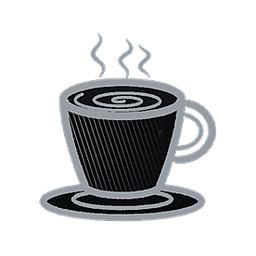
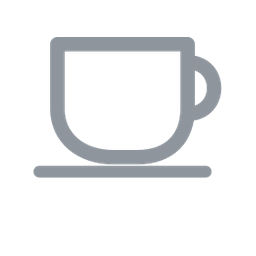
feat(bar): drag-to-move a widget works on a vertical bar (left/right), not only a horizontal one
The direct-drag gesture (press a widget, move, drop) only existed on the horizontal delegate; a vertical bar's
widgets had no DragHandler and were never registered as drop targets, so nothing happened when you tried. DragSession
now reasons along Y instead of X when the bar is vertical (shellLeft/shellRight hold top/bottom, the insert line is
drawn across the bar's thickness), and the vertical delegate gets the same drag/target-registration/drop-line wiring
the horizontal one has. Verified with a real drag on both a left bar and a top bar: the widget under the pointer moves
to the gap the guide shows, nothing else shifts, and dropping is undone/redone identically to the horizontal path.

Also: fix(art) -- the coffee-cup icon (stay awake) sat visibly lower than the radio and flashlight beside it, its
weight bottom-heavy even though its bounding box was centred, so it read as uncentred on the bar. Nudged in the
generator (scripts/gen-indicator-icons.py).

diff --git a/plugins/ito.bar/styles/shibumi/GroupSection.qml b/plugins/ito.bar/styles/shibumi/GroupSection.qml
@@ -1066,10 +1066,41 @@ Item {
           width: implicitWidth
           height: implicitHeight
 
+          property var targetSession: root ? root.layoutSession : null
+          property var registeredSession: null
+          property var registeredItem: null
+
+          function clearTargetRegistration() {
+            if (registeredSession && registeredItem
+                && typeof registeredSession.unregisterTarget === "function")
+              registeredSession.unregisterTarget(registeredItem)
+            registeredSession = null
+            registeredItem = null
+          }
+
+          // Registers this widget as somewhere a drag can land on, the same way a horizontal bar's widgets do
+          // (see horizontalCell.syncTargetRegistration above); a vertical bar had none of this, so dragging on
+          // it had nothing to drop onto.
+          function syncTargetRegistration() {
+            clearTargetRegistration()
+            if (!root || !targetSession || !groupHasContent
+                || typeof targetSession.registerTarget !== "function") return
+            if (targetSession.registerTarget(verticalCell.modelData, groupSlot)) {
+              registeredSession = targetSession
+              registeredItem = groupSlot
+            }
+          }
+
+          onTargetSessionChanged: registrationTimer.restart()
+          onGroupHasContentChanged: registrationTimer.restart()
+          onModelDataChanged: registrationTimer.restart()
+          Component.onDestruction: clearTargetRegistration()
           Component.onCompleted: {
             const currentBar = lifecycleBar
             lifecycleBar = currentBar
+            registrationTimer.restart()
           }
+          Timer { id: registrationTimer; interval: 0; onTriggered: verticalCell.syncTargetRegistration() }
 
           Core.GroupSlot {
             id: groupSlot
@@ -1079,6 +1110,51 @@ Item {
             availableWidth: root ? root.availableWidth : 0
             x: Math.round((verticalCell.width - width) / 2)
             y: verticalCell.leadingGap
+            opacity: root && root.layoutSession && root.layoutSession.active
+              && root.layoutSession.sourceGroupId === verticalCell.modelData ? 0.28 : 1
+            Behavior on opacity { NumberAnimation { duration: 80 } }
+          }
+
+          // Where the widget being dragged would land if dropped here (a trade, not an insert).
+          Rectangle {
+            x: groupSlot.x - 2
+            y: groupSlot.y - 2
+            width: groupSlot.width + 4
+            height: groupSlot.height + 4
+            visible: root && root.layoutSession && root.layoutSession.active
+              && root.layoutSession.targetItem === groupSlot
+            color: root ? Qt.rgba(root.bar.urgent.r, root.bar.urgent.g, root.bar.urgent.b, 0.18) : "transparent"
+            border.width: 2
+            border.color: root ? root.bar.urgent : "transparent"
+            radius: root ? root.bar.visualTokens.pillRadius : 0
+            z: 20
+          }
+
+          // The same direct drag as a horizontal bar's gestureDrag: press on a widget and move, it comes away
+          // and follows the pointer; let go over another widget and they trade places, let go elsewhere (or
+          // between two widgets) and it moves there instead.
+          DragHandler {
+            id: verticalDrag
+            target: null
+            acceptedButtons: Qt.LeftButton
+            dragThreshold: 9
+            enabled: root && root.layoutSession && !root.layoutSession.editing
+              && !root.layoutProtected && verticalCell.modelData !== "" && verticalCell.groupHasContent
+
+            onActiveChanged: {
+              if (!root || !root.layoutSession) return
+              if (active) {
+                const point = verticalCell.mapToItem(null, centroid.position.x, centroid.position.y)
+                root.layoutSession.begin(verticalCell.modelData, groupSlot, point.x, point.y)
+              } else if (root.layoutSession.active) {
+                root.layoutSession.drop()
+              }
+            }
+            onCentroidChanged: {
+              if (!active || !root || !root.layoutSession || !root.layoutSession.active) return
+              const point = verticalCell.mapToItem(null, centroid.position.x, centroid.position.y)
+              root.layoutSession.move(point.x, point.y)
+            }
           }
         }
       }

diff --git a/plugins/ito.bar/core/DragSession.qml b/plugins/ito.bar/core/DragSession.qml
@@ -28,6 +28,9 @@ Item {
   property real shellLeft: 0
   property real shellRight: 0
   property bool flowShell: false
+  // On a vertical bar the axis a drag travels along is Y, not X: shellLeft/shellRight then hold the top/bottom of
+  // the plate, and every "along the bar" comparison below reads Y instead of X.
+  property bool vertical: false
   property real ghostX: 0
   property real ghostY: 0
   property real ghostWidth: 0
@@ -242,6 +245,9 @@ Item {
   }
 
   // The visible widgets of the bar in the order they stand, each with where it is and where it sits in the layout.
+  // The coordinate a drag travels along: X on a horizontal bar, Y on a vertical one.
+  function axisPos(x, y) { return vertical ? y : x }
+
   function placedTargets() {
     const out = []
     for (let i = 0; i < targets.length; i++) {
@@ -252,7 +258,9 @@ Item {
         ? layoutController.groupLocation(t.groupId) : null
       if (!loc) continue
       const origin = item.mapToItem(null, 0, 0)
-      out.push({ region: loc.region, index: loc.index, left: origin.x, right: origin.x + item.width })
+      const near = axisPos(origin.x, origin.y)
+      const far = near + (vertical ? item.height : item.width)
+      out.push({ region: loc.region, index: loc.index, left: near, right: far })
     }
     out.sort(function(a, b) { return a.left - b.left })
     return out
@@ -261,28 +269,29 @@ Item {
   function computeInsert(px, py) {
     if (!layoutController || typeof layoutController.insertGroupAt !== "function") { clearInsert(); return false }
     const placed = placedTargets()
+    const p = axisPos(px, py)
     const span = Math.max(1, shellRight - shellLeft)
     // outside the plate: nothing to drop on
-    if (shellRight > shellLeft && (px < shellLeft - 6 || px > shellRight + 6)) { clearInsert(); return false }
+    if (shellRight > shellLeft && (p < shellLeft - 6 || p > shellRight + 6)) { clearInsert(); return false }
 
     let region = ""
     let index = 0
-    let markerX = px
+    let markerX = p
 
     if (!flowShell) {
       // a full-width bar: left widgets sit at the left end, right ones at the right end, the rest in the middle
       const third = span / 3
-      region = px < shellLeft + third ? "left" : (px > shellRight - third ? "right" : "center")
+      region = p < shellLeft + third ? "left" : (p > shellRight - third ? "right" : "center")
     } else {
       // content-sized: the regions run on into one another, so the neighbours decide the region
       let prev = null
       let next = null
       for (let i = 0; i < placed.length; i++) {
-        if ((placed[i].left + placed[i].right) / 2 <= px) prev = placed[i]
+        if ((placed[i].left + placed[i].right) / 2 <= p) prev = placed[i]
         else if (!next) next = placed[i]
       }
       if (prev && next && prev.region !== next.region) {
-        const towardsPrev = px - prev.right < next.left - px
+        const towardsPrev = p - prev.right < next.left - p
         region = towardsPrev ? prev.region : next.region
         index = towardsPrev ? prev.index + 1 : next.index
         markerX = towardsPrev ? prev.right + 3 : next.left - 3
@@ -309,7 +318,7 @@ Item {
     let before = null
     let after = null
     for (let i = 0; i < mine.length; i++) {
-      if ((mine[i].left + mine[i].right) / 2 <= px) after = mine[i]
+      if ((mine[i].left + mine[i].right) / 2 <= p) after = mine[i]
       else if (!before) before = mine[i]
     }
     if (before) { index = before.index; markerX = before.left - 3 }

diff --git a/plugins/ito.bar/styles/shibumi/BarSurface.qml b/plugins/ito.bar/styles/shibumi/BarSurface.qml
@@ -89,6 +89,12 @@ Item {
         value: horizontalSurface.compactShell
         when: root.layoutSession !== null
       }
+      Binding {
+        target: root.layoutSession
+        property: "vertical"
+        value: false
+        when: root.layoutSession !== null
+      }
 
       // Where the dragged widget will go when it is dropped between others or in an empty part of the bar.
       Rectangle {
@@ -617,6 +623,46 @@ Item {
         ? Math.min(height - 2 * frameInset, Math.max(Commons.Style.space(80), naturalLength))
         : Math.max(0, height - 2 * frameInset)
       readonly property real shellStart: compactShell ? Math.round((height - shellLength) / 2) : frameInset
+
+      // Tell the drag session where the plate is (top/bottom this time, since the bar runs top-to-bottom), so an
+      // empty part of it can be dropped on -- the same three bindings horizontalSurface makes, along the other axis.
+      Binding {
+        target: root.layoutSession
+        property: "shellLeft"
+        value: verticalSurface.mapToItem(null, 0, verticalSurface.shellStart).y
+        when: root.layoutSession !== null
+      }
+      Binding {
+        target: root.layoutSession
+        property: "shellRight"
+        value: verticalSurface.mapToItem(null, 0, verticalSurface.shellStart + verticalSurface.shellLength).y
+        when: root.layoutSession !== null
+      }
+      Binding {
+        target: root.layoutSession
+        property: "flowShell"
+        value: verticalSurface.compactShell
+        when: root.layoutSession !== null
+      }
+      Binding {
+        target: root.layoutSession
+        property: "vertical"
+        value: true
+        when: root.layoutSession !== null
+      }
+
+      // Where the dragged widget will go, drawn across the bar's thickness instead of along its length.
+      Rectangle {
+        visible: root.layoutSession !== null && root.layoutSession.active && root.layoutSession.insertRegion !== ""
+        y: verticalSurface.mapFromItem(null, 0, root.layoutSession ? root.layoutSession.insertX : 0).y - 1.5
+        x: 4
+        width: Math.max(0, verticalSurface.thick - 8)
+        height: 3
+        radius: 1.5
+        color: root.bar.urgent
+        z: 90
+        Behavior on y { NumberAnimation { duration: 90; easing.type: Easing.OutCubic } }
+      }
 
       // The shape itself: the horizontal bar's own chrome, turned on its side, so every form (Islands, Full, Fit,
       // Dock, Notch) is drawn the same way on the left and the right as along the top.

diff --git a/scripts/gen-indicator-icons.py b/scripts/gen-indicator-icons.py
@@ -143,16 +143,30 @@ ICONS = {
 }
 
 
+# fit() centres every icon by the geometric middle of its ink, which is right for a shape whose ink is spread
+# evenly (a ring, a chip). The coffee cup is not: two thin wisps of steam sit far above a solid cup and saucer, so
+# the *geometric* box is centred but the *drawing* still reads low, sitting under the radio and the flashlight
+# that share its row. This nudges it back up by the same pixels its own ink is heavier below the middle than
+# above -- worked out from the drawing, not guessed.
+NUDGE_Y = {("awake", "coffee"): -20}
+
+
 def main() -> int:
     OUT.mkdir(parents=True, exist_ok=True)
     for (ident, version), fn in ICONS.items():
+        nudge = NUDGE_Y.get((ident, version), 0)
         for state, on in (("off", False), ("on", True)):
             tmp = OUT / "t.svg"
             dst = OUT / f"{ident}-{version}-{state}.png"
             tmp.write_text(fn(on))
             subprocess.run(["rsvg-convert", "-w", "256", "-h", "256", str(tmp), "-o", str(dst)], check=True)
             tmp.unlink()
-            fit(Image.open(dst).convert("RGBA")).save(dst)
+            fitted = fit(Image.open(dst).convert("RGBA"))
+            if nudge:
+                shifted = Image.new("RGBA", fitted.size, (0, 0, 0, 0))
+                shifted.alpha_composite(fitted, (0, nudge))
+                fitted = shifted
+            fitted.save(dst)
     print(f"wrote {len(ICONS) * 2} indicator icons -> {OUT}")
     return 0
 
